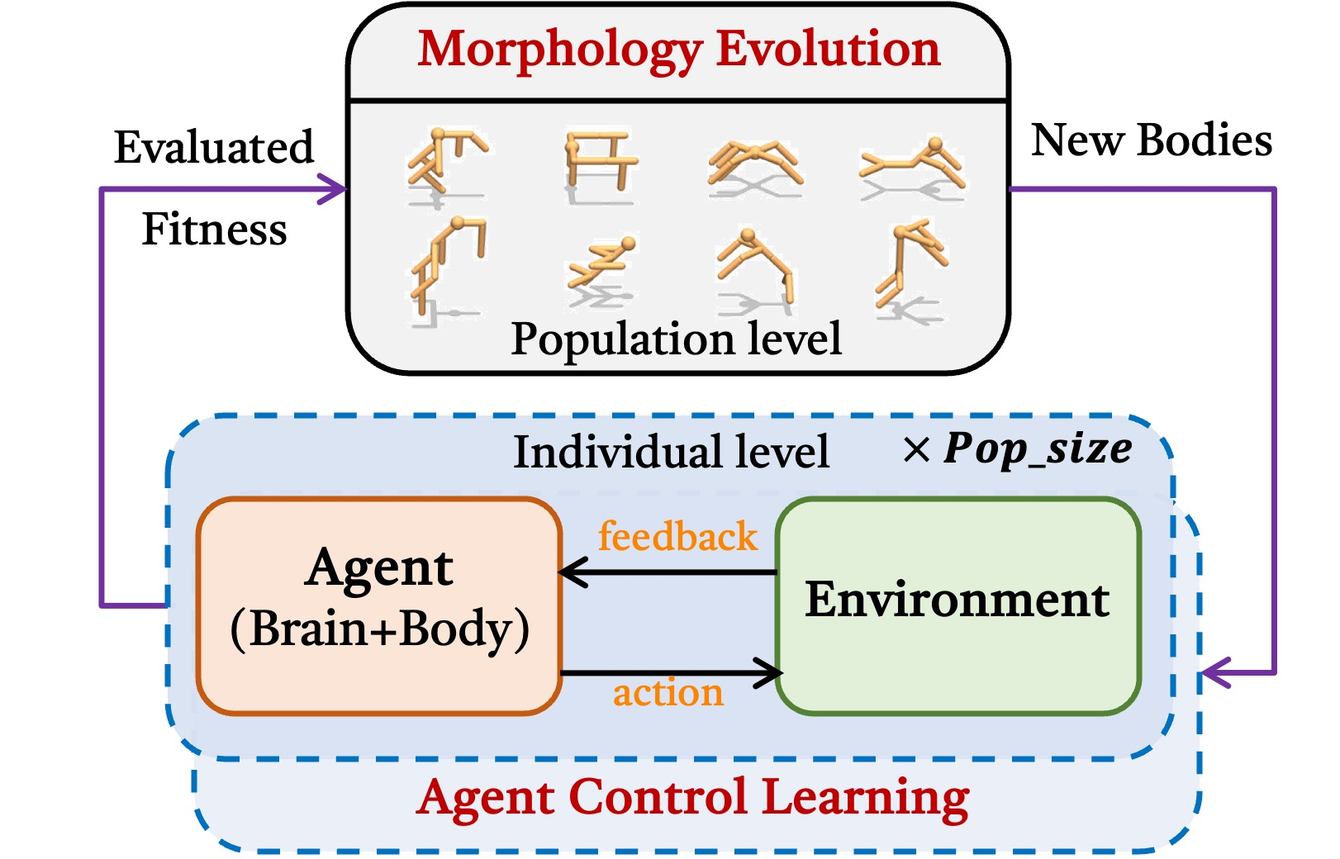
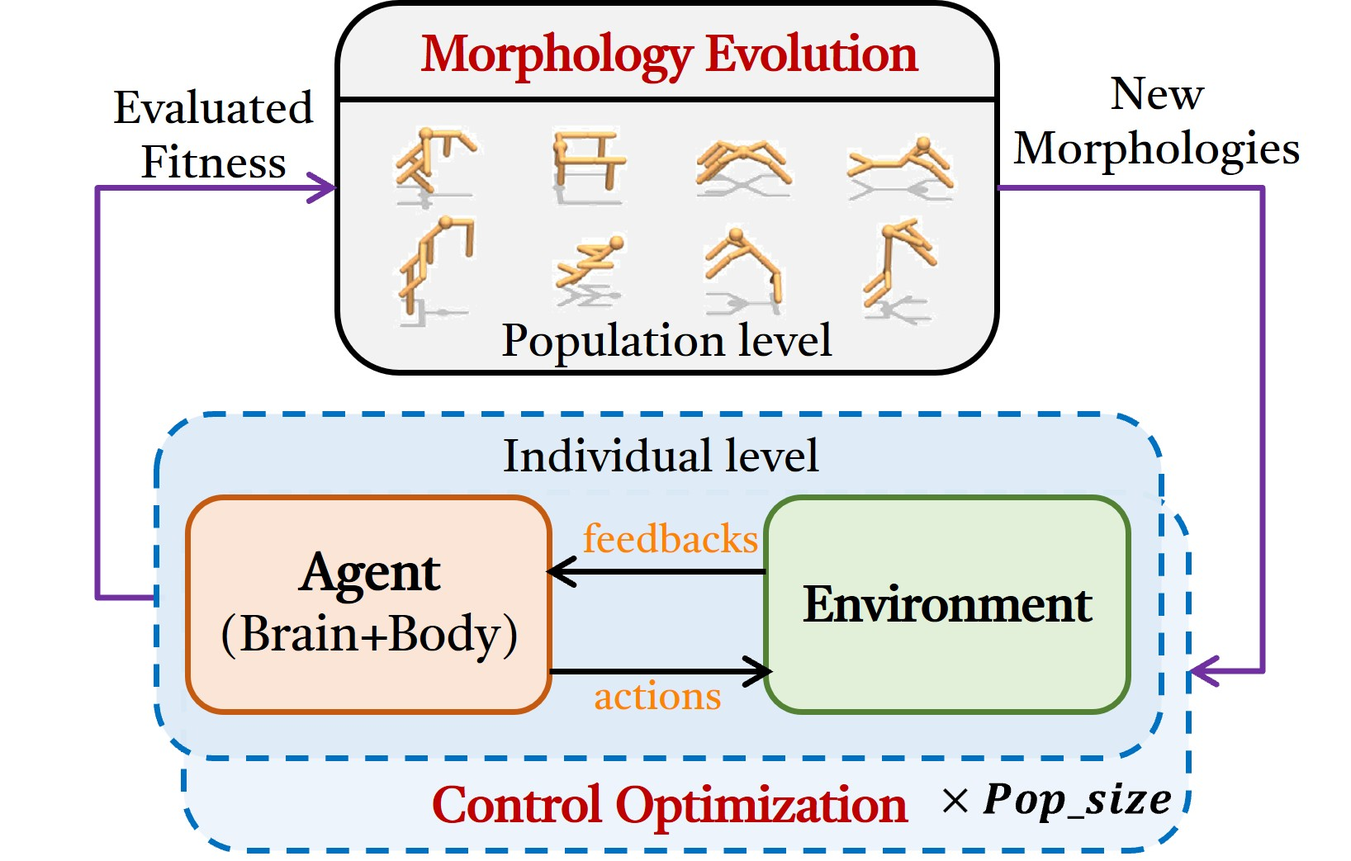
update

Changed region(s): [[0.0617, 0.0, 0.9556, 1.0]]

diff --git a/README.md b/README.md
@@ -13,7 +13,7 @@
 
 <div align=center><img src="images/cover4.jpg" width="99%"></div>
 
-<p style="text-align:justify;"><b>🔑 Contributions to Embodied AI:</b> This work provides a comprehensive survey of ECD within the broader landscape of embodied intelligence. We begin with definitions of ECD and contextualize it within related fields such as evolutionary robotics, artificial life, and computational robot design. Next, we introduce a novel hierarchical taxonomy to classify design spaces and encoding methods for control, morphology, and tasks, which allows us to analyze over one hundred recent studies in ECD. We review notable benchmarks and applications in both simulated and real-world scenarios. Finally, we identify significant challenges and offer insights into promising future research directions.
+<p style="text-align:justify;"><b>🔑 Contributions to Embodied AI:</b> This work provides a comprehensive survey of ECD within the broader landscape of embodied intelligence. We begin with definitions of ECD and contextualize it within related fields such as evolutionary robotics, artificial life, and computational robot design. Next, we introduce a novel hierarchical taxonomy to classify design spaces and representation methods for control, morphology, and tasks, which allows us to analyze over one hundred recent studies in ECD. We review notable benchmarks and applications in both simulated and real-world scenarios. Finally, we identify significant challenges and offer insights into promising future research directions.
 
 We hope that this survey can serve as a reference-worthy and stimulating contribution to the advancement of embodied intelligence while also providing valuable perspectives for related fields.</p></b>
 
@@ -38,41 +38,40 @@ The process to submit a pull request is as follows:
 <p style="text-align:justify;">
 Here is a quick menu .^_^. : </p>
   
-- [🚀 Embodied Co-Design for Rapidly Evolving Agents: Taxonomy, Frontiers, and Challenges](#-brain-body-co-design-in-embodied-intelligence-taxonomy-frontiers-and-challenges)
+- [🚀 Embodied Co-Design for Rapidly Evolving Agents: Taxonomy, Frontiers, and Challenges](#-embodied-co-design-for-rapidly-evolving-agents-taxonomy-frontiers-and-challenges)
 - [📋 Update List](#-update-list)
 - [🔥 Comments](#-comments)
 - [🎥 Overview](#-overview)
-	- [Taxonomy of ECD](#taxonomy-of-bbcd)
-	- [Optimization Frameworks of ECD](#optimization-frameworks-of-bbcd)
-- [:star: Latest Works](#star-latest-works)
-- [:one: Bi-Level Co-Design](#one-bi-level-brain-body-co-design)
-	- [ERL-Based Methods](#erl-based-methods)
-	- [Surrogate-Based Methods](#surrogate-based-methods)
-	- [Diversity-Based Methods](#diversity-based-methods)
+	- [Taxonomy of Embodied Co-Design](#taxonomy-of-embodied-co-design)
+	- [Frameworks of Embodied Co-Design](#frameworks-of-embodied-co-design)
+- [:star: Latest ECD Works](#star-latest-ecd-works)
+- [:one: Bi-Level Co-Design](#one-bi-level-co-design)
+	- [Evolutionary Reinforcement Learning](#evolutionary-reinforcement-learning)
+	- [Surrogate-Assisted Methods](#surrogate-assisted-methods)
 	- [Other Methods](#other-methods)
-- [:two: Single-Level Co-Design](#two-single-level-brain-body-co-design)
+- [:two: Single-Level Co-Design](#two-single-level-co-design)
 	- [EA-Based Methods](#ea-based-methods)
 	- [RL-Based Methods](#rl-based-methods)
 	- [Physics-Based Methods](#physics-based-methods)
-	- [Other Methods](#other-methods-1)
-- [:three: Generative Co-Design](#three-generative-brain-body-co-design)
+	- [Diversity-Based Methods](#diversity-based-methods)
+- [:three: Generative Co-Design](#three-generative-co-design)
 	- [Rule-Based Generation](#rule-based-generation)
 	- [Latent-Based Generation](#latent-based-generation)
-	- [Large-Model-Based Generation](#large-model-based-generation)
+	- [LLM/VLM-Based Generation](#llmvlm-based-generation)
 - [:four: Open-Ended Co-Design Methods](#four-open-ended-co-design-methods)
-	- [Co-Evolution Methods](#co-evolution-methods)
-	- [Developmental Methods](#developmental-methods)
-	- [Others](#others)
-- [:five: Theoretical and Experimental Analysis of Embodied Co-Design](#five-theoretical-and-experimental-analysis-of-brain-body-co-design)
-- [:computer: Simulated Benchmarks for Embodied Co-Design](#computer-simulated-benchmarks-for-brain-body-co-design)
-- [:door: ECD in Real World](#door-bbcd-in-real-world)
+	- [Brain-Body-Env Co-Evolution](#brain-body-env-co-evolution)
+	- [Developmental Co-Evolution](#developmental-co-evolution)
+	- [Other Methods](#other-methods-1)
+- [:five: Theoretical and Experimental Analysis of Embodied Co-Design](#five-theoretical-and-experimental-analysis-of-embodied-co-design)
+- [:computer: Simulated Benchmarks for Embodied Co-Design](#computer-simulated-benchmarks-for-embodied-co-design)
+- [:door: Embodied Co-Deisgn in Real World](#door-embodied-co-deisgn-in-real-world)
 - [:book: Other Surveys Recommended](#book-other-surveys-recommended)
 - [:envelope: Contact Information](#envelope-contact-information)
 
-## Taxonomy of ECD
+## Taxonomy of Embodied Co-Design
 <p style="text-align:justify;"> 
 
-The creation of an embodied agent hinges on three critical components: <b>Controlling Brain</b>, <b>Body Morphology</b>, <b>Task Environment</b>, and the <b>Co-Design algorithm</b> that optimizes these components.</p>
+The creation of an embodied agent hinges on three critical components: <b>Controlling Brain</b>, <b>Body Morphology</b>, <b>Task Environment</b>, and the <b>Co-Design</b> algorithm that optimizes these components.</p>
 
 <p style="text-align:justify;"><b>1. Controlling Brain</b>: The controller (software) is responsible for perception-action coupling, enabling an agent to process sensory information and generate appropriate motor responses to control its body.</p>
 
@@ -82,18 +81,18 @@ The creation of an embodied agent hinges on three critical components: <b>Contro
 
 <p style="text-align:justify;"><b>4. Co-Design Algorithms (A machine that can design other machines)</b>: An effective co-design algorithm integrates the optimization of control, morphology, and environmental interactions. Unlike traditional methods that treat these components separately, co-design algorithms aim to simultaneously refine all aspects, leading to more efficient and adaptive agents. These algorithms leverage advanced techniques to explore and exploit the co-design space, optimizing for performance across diverse tasks and environments.</p>
 
-<div align=center><img src="images/tax.png" width="95%"></div>
+<div align=center><img src="images/tax.png" width="98%"></div>
 
 <b>:book: We provide a detailed analysis of ECD methods based on the proposed taxonomy. Please refer to our paper when it is available online.</b>
 
-## Optimization Frameworks of ECD
+## Frameworks of Embodied Co-Design  
 The following picture introduces 4 general ECD frameworks, with the last sub-figure showing an example of the ECD process for creating a BipedalWalker agent.
 <div align=center><img src="images/over.png" width="100%"></div>
 
-# :star: Latest Works
-|Paper| Published in |Co-Designed Agent|Code&Page|                               
+# :star: Latest ECD Works
+|Paper| Published in |Embodied Agent|Code&Page|                               
 |:---------|:---------------------------------------------------|:-------------:|:-------------|
-|[RoboMorph: Evolving Robot Morphology using Large Language Models](https://arxiv.org/pdf/2407.08626?)|**Arxiv 2024**|Rigid Robot|-|
+|[RoboMorph: Evolving Robot Morphology using Large Language Models](https://arxiv.org/pdf/2407.08626?)|**ICLRw 2025**|Rigid Robot|-|
 |[RoboNet: A Sample-Efficient Robot co-design Generator](https://openreview.net/pdf?id=VdT2R6XSlV)|**CoRLw 2024**|Rigid Robot|-|
 |[LASeR: LASeR: Towards Diversified and Generalizable Robot Design with Large Language Models](https://openreview.net/forum?id=7mlvOHL6qJ)|**ICLR 2025**|Modular Soft Robot|[Code](https://github.com/WoodySJR/LASeR)|
 |[Generating Freeform Endoskeletal Robots](https://arxiv.org/abs/2412.01036)|**ICLR 2025**|Endoskeletal Robot|[Code](https://github.com/iffiX/endoskeletal)&[Page](https://endoskeletal.github.io/)|
@@ -122,6 +121,8 @@ The following picture introduces 4 general ECD frameworks, with the last sub-fig
 |[Concurrent optimization of modular robots for planetary landforms: A terrain-guided approach based on STGCN-GA](https://link.springer.com/article/10.1007/s42064-024-0259-8)|**Astrodynamics 2025**|Modular Robot||
 |[A Design Co-Pilot for Task-Tailored Manipulators](https://arxiv.org/pdf/2509.13077)|**Arxiv 2025**|Manipulators|[Page](https://cobra.cps.cit.tum.de/tasks?version=2022&metadata__tags=Robot_designer)|
 |[CAD-Driven Co-Design for Flight-Ready Jet-Powered Humanoids](https://arxiv.org/pdf/2509.14935)|**Arxiv 2025**|Humanoid Robot||
+|[Performance-guided Task-specific Optimization for Multirotor Design](https://arxiv.org/pdf/2510.04724)|**Arxiv 2025**|Multirotor Robot|[Page](https://youtu.be/V6w_DTKWvtc?si=kV4dyNnZw70lNWEf&t=88)|
+|[Embracing Evolution: A Call for Body-Control Co-Design in Embodied Humanoid Robot](https://arxiv.org/html/2510.03081v1)|**Arxiv 2025**|Humanoid Robot||
 
 # :one: Bi-Level Co-Design
 <div align=center><img src="images/bilevel.jpg" width="50%"></div>
@@ -129,9 +130,10 @@ The following picture introduces 4 general ECD frameworks, with the last sub-fig
 ## Evolutionary Reinforcement Learning
 <b>TLDR: Methods that focus on the bi-level nature of control learning together with morphology evolution (Baldwin Effect)</b>
 
-|Paper| Published in |Co-Designed Agent|Code&Page|                               
+|Paper| Published in |Embodied Agent|Code&Page|                               
 |:---------|:---------------------------------------------------|:-------------:|:-------------|
 [Neural graph evolution: Towards efficient automatic robot design](https://arxiv.org/pdf/1906.05370)|**ICLR 2019**|Rigid Robot|[Code](https://github.com/WilsonWangTHU/neural_graph_evolution)&[Page](https://www.cs.toronto.edu/~henryzhou/NGE_website/)|
+[The body is not a given: Joint agent policy learning and morphology evolution](https://discovery.ucl.ac.uk/id/eprint/10081611/)|**AAMAS 2019**|Rigid Robot|[Page](https://www.youtube.com/watch?v=CHlecRim9PI)|
 [Embodied Intelligence via Learning and Evolution](https://www.nature.com/articles/s41467-021-25874-z)|**Nature Comm. 2021**|Rigid Robot|[Code](https://github.com/agrimgupta92/derl)&[Page](https://hai.stanford.edu/news/how-bodies-get-smarts-simulating-evolution-embodied-intelligence)|
 [Evolution Gym: A Large-Scale Benchmark for Evolving Soft Robots](https://arxiv.org/pdf/2201.09863)|**NIPS 2021**|Modular Soft Robot|[Code](https://github.com/EvolutionGym/evogym)&[Page](https://evolutiongym.github.io/)|
 [Evolving Physical Instinct for Morphology and Control Co-Adaption](https://ieeexplore.ieee.org/document/10342243)|**IROS 2023**|Legged Robot|[Code](https://github.com/HPCL-EI/InstinctEvolution)|
@@ -152,33 +154,27 @@ The following picture introduces 4 general ECD frameworks, with the last sub-fig
 ## Surrogate-Assisted Methods
 <b>TLDR: Methods that focus on using surrogate models to reduce the computational burden of the co-design process (how to efficiently evaluate a morphology without learning a specific controller?)</b>
 
-|Paper| Published in |Co-Designed Agent|Code&Page|                               
+|Paper| Published in |Embodied Agent|Code&Page|                               
 |:---------|:---------------------------------------------------|:-------------:|:-------------|
-[The trade-off between morphology and control in the co-optimized design of robots](https://journals.plos.org/plosone/article/file?id=10.1371/journal.pone.0186107&type=printable)|**PLOS ONE 2017**|Rigid Robot|-|
-[Data-efficient Learning of Morphology and Controller for a Microrobot](https://arxiv.org/pdf/1905.01334)|**ICRA 2019**|Micro Robot|[Code](https://github.com/tholiao/learning-morph-and-ctrl)&[Page](https://sites.google.com/view/learning-robot-morphology)|
-[Data-efficient co-adaptation of morphology and behaviour with deep reinforcement learning](https://arxiv.org/pdf/1911.06832)|**CoRL 2020**|Rigid Robot|[Code](https://github.com/ksluck/Coadaptation)|
-[What robot do i need? fast co-adaptation of morphology and control using graph neural networks](https://arxiv.org/pdf/2111.02371)|**Arxiv 2021**|Rigid Robot|-|
-[Evolution Gym: A Large-Scale Benchmark for Evolving Soft Robots](https://arxiv.org/pdf/2201.09863)|**NIPS 2021**|Modular Soft Robot|[Code](https://github.com/EvolutionGym/evogym)&[Page](https://evolutiongym.github.io/)|
-[Co-imagination of Behaviour and Morphology of Agents](https://kevin-luck.com/assets/pdf/Sliacka_LOD_2024.pdf)|**LOD 2023**|Rigid Robot|-|
-[Co-imitation: learning design and behaviour by imitation](https://arxiv.org/pdf/2209.01207)|**AAAI 2023**|Rigid Robot|[Page](https://sites.google.com/view/co-imitation)|
-[Rapidly evolving soft robots via action inheritance](https://ieeexplore.ieee.org/document/10296048)|**TEVC 2023**|Modular Soft Robot|[Code](https://github.com/ShuleiLiu/AIEA)|
-[Co-Designing Tools and Control Policies for Robust Manipulation](https://arxiv.org/pdf/2409.11113)|**Arxiv 2024**|Rigid Tool|[Page](https://sites.google.com/view/robust-codesign/)|
-[Effective Design and Interpretation in Voxel-Based Soft Robotics: A Part Assembly Approach with Bayesian Optimization](https://direct.mit.edu/isal/proceedings/isal2024/36/26/123476)|**GECCO 2024**|Modular Soft Robot|-|
+|[Data-efficient Learning of Morphology and Controller for a Microrobot](https://arxiv.org/pdf/1905.01334)|**ICRA 2019**|Micro Robot|[Code](https://github.com/tholiao/learning-morph-and-ctrl)&[Page](https://sites.google.com/view/learning-robot-morphology)|
+|[Data-efficient co-adaptation of morphology and behaviour with deep reinforcement learning](https://arxiv.org/pdf/1911.06832)|**CoRL 2020**|Rigid Robot|[Code](https://github.com/ksluck/Coadaptation)|
+|[What robot do i need? fast co-adaptation of morphology and control using graph neural networks](https://arxiv.org/pdf/2111.02371)|**Arxiv 2021**|Rigid Robot|-|
+|[Neural fidelity warping for efficient robot morphology design](https://arxiv.org/pdf/2012.04195)|**ICRA 2021**|Rigid Robot|[Code](https://github.com/husha1993/FWBO)|
+|[Evolution Gym: A Large-Scale Benchmark for Evolving Soft Robots](https://arxiv.org/pdf/2201.09863)|**NIPS 2021**|Modular Soft Robot|[Code](https://github.com/EvolutionGym/evogym)&[Page](https://evolutiongym.github.io/)|
+|[Co-imagination of Behaviour and Morphology of Agents](https://kevin-luck.com/assets/pdf/Sliacka_LOD_2024.pdf)|**LOD 2023**|Rigid Robot|-|
+|[Co-imitation: learning design and behaviour by imitation](https://arxiv.org/pdf/2209.01207)|**AAAI 2023**|Rigid Robot|[Page](https://sites.google.com/view/co-imitation)|
+|[Rapidly evolving soft robots via action inheritance](https://ieeexplore.ieee.org/document/10296048)|**TEVC 2024**|Modular Soft Robot|[Code](https://github.com/ShuleiLiu/AIEA)|
+|[Co-Designing Tools and Control Policies for Robust Manipulation](https://arxiv.org/pdf/2409.11113)|**Arxiv 2024**|End Effector|[Page](https://sites.google.com/view/robust-codesign/)|
+|[Cagecoopt: enhancing manipulation robustness through caging-guided morphology and policy co-optimization](https://arxiv.org/abs/2409.11113)|**IROS 2025**|End Effector|[Page](https://sites.google.com/view/robust-codesign/)|
+|[Effective Design and Interpretation in Voxel-Based Soft Robotics: A Part Assembly Approach with Bayesian Optimization](https://direct.mit.edu/isal/proceedings/isal2024/36/26/123476)|**A-Life 2024**|Modular Soft Robot|-|
 |[Efficient co-adaptation of humanoid robot design and locomotion control using surrogate-guided optimization](https://www.sciencedirect.com/science/article/pii/S2667379725000464)|**Biomimetic Intelligence and Robotics**|Humanoid Robot|-|
 
-## Diversity-Based Methods
-<b>TLDR: Methods that focus on generating morphological diversity (how to effectively keep the morphological diversity?).</b>
-
-|Paper| Published in |Co-Designed Agent|Code&Page|                               
-|:---------|:---------------------------------------------------|:-------------:|:-------------|
-[A ’MAP’ to find high-performing soft robot designs: Traversing complex design spaces using MAP-elites and Topology Optimization](https://arxiv.org/pdf/2407.07591)|**IROS 2024**|Rigid Manipulator|N/A|
-|[Controller Distillation Reduces Fragile Brain-Body Co-Adaptation and Enables Migrations in MAP-Elites](https://arxiv.org/pdf/2504.06523)|**GECCO 2025**|Modular Soft Robot|[Code](https://github.com/mertan-a/pollination)|
-|[Enhancing Adaptability in Embodied Agents: A Multi-Quality-Diversity Approach](https://ieeexplore.ieee.org/abstract/document/11119655)|**IEEE TEVC**|Modular Soft Robot|[Code](https://github.com/giorgia-nadizar/BBB-QD)|
-|[Quality-diversity in problems with composite solutions: a case study on body–brain robot optimization](https://link.springer.com/article/10.1007/s10710-025-09520-x)|**Genetic Programming and Evolvable Machines**|Modular Soft Robot|-|
 
 ## Other Methods
-|Paper| Published in |Co-Designed Agent|Code&Page|                               
+|Paper| Published in |Embodied Agent|Code&Page|                               
 |:---------|:---------------------------------------------------|:-------------:|:-------------|
+[Lamarckian evolution of simulated modular robots](https://www.frontiersin.org/journals/robotics-and-ai/articles/10.3389/frobt.2019.00009/full)|**Frontiers in Robotics and AI 2019**|Modular Robot|[Code](https://github.com/ci-group/revolve/)|
+[Robogrammar: graph grammar for terrain-optimized robot design](https://dl.acm.org/doi/10.1145/3414685.3417831)|**TOG 2020**|Rigid Robot|[Code](https://github.com/allanzhao/RoboGrammar)&[Page](https://people.csail.mit.edu/jiex/papers/robogrammar/index.html)|
 [Task-Agnostic Morphology Evolution](https://openreview.net/pdf?id=CGQ6ENUMX6)|**ICLR 2021**|Rigid Robot|[Code](https://github.com/jhejna/morphology-opt)&[Page](https://sites.google.com/view/task-agnostic-evolution)| -->
 [Codesign of humanoid robots for ergonomic collaboration with multiple humans via genetic algorithms and nonlinear optimization](https://ieeexplore.ieee.org/document/10375237)|**Humanoids 2023**|Humanoid Robot|[Code](https://github.com/ami-iit/paper_sartore_2023_humanoids_codesign-ga-nl)|
 [Evolution and learning in differentiable robots](https://www.roboticsproceedings.org/rss20/p100.pdf)|**RSS 2024**|Modular Soft Robot|[Code](https://github.com/lstrgar/ELDiR)&[Page](https://sites.google.com/view/eldir)|
@@ -190,7 +186,7 @@ The following picture introduces 4 general ECD frameworks, with the last sub-fig
 ## EA-Based Methods
 <b>TLDR: Methods that focus on evolving morphology and control simultaneously (how does natural evolution inform the co-design process?).</b>
 
-|Paper| Published in |Co-Designed Agent|Code&Page|                               
+|Paper| Published in |Embodied Agent|Code&Page|                               
 |:---------|:---------------------------------------------------|:-------------:|:-------------|
 |[Evolving 3D morphology and behavior by competition](https://citeseerx.ist.psu.edu/document?repid=rep1&type=pdf&doi=625cf770e697cc01b9201fd3b67456ac56a7a27b)|**ALife 1994**|Rigid Robot|-|
 |[Automatic design and manufacture of robotic lifeforms](http://129.64.46.116/pr/golem/download/naturegolem.pdf)|**Nature 2000**|Rigid Robot|-|
@@ -199,14 +195,18 @@ The following picture introduces 4 general ECD frameworks, with the last sub-fig
 |[An Improved System for Artificial Creatures Evolution](https://citeseerx.ist.psu.edu/document?repid=rep1&type=pdf&doi=2d64f5e208b2e841dfc30ea6daffb4e259bae75f)|**ALife 2006**|Rigid Robot|-|
 |[Evolving virtual creatures and catapults](https://ieeexplore.ieee.org/abstract/document/6792861)|**ALife 2007**|Rigid Robot|-|
 |[Solving deceptive tasks in robot body-brain co-evolution by searching for behavioral novelty](https://ieeexplore.ieee.org/abstract/document/5687250)|**ICISDA 2010**|Rigid Robot|-|
+[The trade-off between morphology and control in the co-optimized design of robots](https://journals.plos.org/plosone/article/file?id=10.1371/journal.pone.0186107&type=printable)|**PLOS ONE 2017**|Rigid Robot|-|
+[A good body is all you need: Avoiding catastrophic interference via agent architecture search](https://arxiv.org/pdf/2108.08398)|**NIPS 2021**|Wheeled Robot|[Code](https://github.com/jpp46/ARXIV2021)|
 [A Unified Substrate for Body-Brain Co-evolution](https://arxiv.org/pdf/2203.12066)|**ICLRw 2022**|Vitual Creature|[Code](https://github.com/sidneyp/neural-cellular-robot-substrate)|
 |[Evolution of Developmental Plasticity of Soft Virtual Creatures in Changing Environments](https://ieeexplore.ieee.org/document/10611998)|**CEC 2024**|Modular Soft Robot|N/A|
+|[No-brainer: Morphological Computation driven Adaptive Behavior in Soft Robots](https://arxiv.org/pdf/2407.16613)|**SAB 2024**|Modular Soft Robot|[Code](https://github.com/mertan-a/no-brainer)|
 |[Concurrent optimization of modular robots for planetary landforms: A terrain-guided approach based on STGCN-GA](https://link.springer.com/article/10.1007/s42064-024-0259-8)|**Astrodynamics 2025**|Modular Robot||
+|[Controller Distillation Reduces Fragile Brain-Body Co-Adaptation and Enables Migrations in MAP-Elites](https://arxiv.org/pdf/2504.06523)|**GECCO 2025**|Modular Soft Robot|[Code](https://github.com/mertan-a/pollination)|
 
 ## RL-Based Methods
 <b>TLDR: Methods that focus on optimizing morphology and control simultaneously using Reinforcement Learning (physics-model free).</b>
 
-|Paper| Published in |Co-Designed Agent|Code&Page|                               
+|Paper| Published in |Embodied Agent|Code&Page|                               
 |:---------|:---------------------------------------------------|:-------------:|:-------------|
 |[Reinforcement learning for improving agent design](https://direct.mit.edu/artl/article/25/4/352/93262/Reinforcement-Learning-for-Improving-Agent-Design)|**A-LIFE 2019**|Rigid Robot|[Page](https://designrl.github.io/)|
 |[Learning to Fly: Computational Controller Design for Hybrid UAVs with Reinforcement Learning](https://dl.acm.org/doi/10.1145/3306346.3322940)|**ACM TOG 2019**|UAV|-|
@@ -218,6 +218,7 @@ The following picture introduces 4 general ECD frameworks, with the last sub-fig
 |[N-LIMB: Neural Limb Optimization for Efficient Morphological Design](https://proceedings.neurips.cc/paper_files/paper/2019/file/c26820b8a4c1b3c2aa868d6d57e14a79-Paper.pdf)|**Arxiv 2022**|Rigid Robot|[Page](https://sites.google.com/ttic.edu/nlimb)&[Code](https://github.com/cbschaff/nlimb2)|
 |[Curriculum-based co-design of morphology and control of voxel-based soft robots](https://openreview.net/pdf?id=r9fX833CsuN)|**ICLR 2023**|Modular Soft Robot|[Code](https://github.com/Yuxing-Wang-THU/ModularEvoGym)&[Page](https://yuxing-wang-thu.github.io/projects/1_project/)|
 |[PreCo: Enhancing Generalization in Co-Design of Modular Soft Robots via Brain-Body Pre-Training](https://proceedings.mlr.press/v229/wang23b/wang23b.pdf)|**CoRL 2023**|Modular Soft Robot|[Code](https://github.com/Yuxing-Wang-THU/ModularEvoGym)&[Page](https://yuxing-wang-thu.github.io/projects/1_project/)|
+[Co-optimization of Morphology and Behavior of Modular Robots via Hierarchical Deep Reinforcement Learning](https://roboticsproceedings.org/rss19/p096.pdf)|**RSS 2023**|Modular Robot|-|
 |[Learning to Design and Use Tools for Robotic Manipulation](https://arxiv.org/pdf/2311.00754)|**CoRL 2023**|Robot Manipulator Tools|[Page](https://robotic-tool-design.github.io/)|
 |[MORPH: Design Co-optimization with Reinforcement Learning via a Differentiable Hardware Model Proxy](https://arxiv.org/pdf/2309.17227)|**Arxiv 2023**|Rigid robot|[Page](https://roamlab.github.io/morph/)|
 |[Symmetry-Aware Robot Design with Structured Subgroups](https://proceedings.mlr.press/v202/dong23h/dong23h.pdf)|**ICML 2023**|Rigid robot|[Code](https://github.com/drdh/SARD)&[Page](https://sites.google.com/view/robot-design)|
@@ -229,7 +230,7 @@ The following picture introduces 4 general ECD frameworks, with the last sub-fig
 ## Physics-Based Methods
 <b>TLDR: Methods that focus on optimizing morphology and control simultaneously using Differentiable Simulation (physics-model based).</b>
 
-|Paper| Published in |Co-Designed Agent|Code&Page|                               
+|Paper| Published in |Embodied Agent|Code&Page|                               
 |:---------|:---------------------------------------------------|:-------------:|:-------------|
 |[Learning-in-the-loop optimization: End-to-end control and co-design of soft robots through learned deep latent representations](https://proceedings.neurips.cc/paper/2019/file/438124b4c06f3a5caffab2c07863b617-Paper.pdf)|**NIPS 2019**|Soft Robot|-|
 |[Diffaqua: A differentiable computational design pipeline for soft underwater swimmers with shape interpolation](https://dl.acm.org/doi/pdf/10.1145/3450626.3459832)|**ACM TOG 2021**|Soft Gripper|[Code](https://github.com/mit-gfx/DiffAqua)&[Page](https://proceedings.neurips.cc/paper/2019/hash/438124b4c06f3a5caffab2c07863b617-Abstract.html)|
@@ -246,7 +247,14 @@ The following picture introduces 4 general ECD frameworks, with the last sub-fig
 |[Accelerated co-design of robots through morphological pretraining](https://arxiv.org/pdf/2502.10862)|**Arxiv 2025**|Modular Robot|[Page](https://sites.google.com/view/co-design-mpt)|
 |[Modeling, Embedded Control and Design of Soft Robots using a Learned Condensed FEM Model](https://arxiv.org/pdf/2503.15009)|**IEEE TRO**|Soft Robot|-|
 
-## Other Methods
+## Diversity-Based Methods
+<b>TLDR: Methods that focus on generating morphological diversity (how to effectively keep the morphological diversity?).</b>
+
+|Paper| Published in |Embodied Agent|Code&Page|                               
+|:---------|:---------------------------------------------------|:-------------:|:-------------|
+[A ’MAP’ to find high-performing soft robot designs: Traversing complex design spaces using MAP-elites and Topology Optimization](https://arxiv.org/pdf/2407.07591)|**IROS 2024**|Rigid Manipulator|N/A|
+|[Enhancing Adaptability in Embodied Agents: A Multi-Quality-Diversity Approach](https://ieeexplore.ieee.org/abstract/document/11119655)|**IEEE TEVC**|Modular Soft Robot|[Code](https://github.com/giorgia-nadizar/BBB-QD)|
+|[Quality-diversity in problems with composite solutions: a case study on body–brain robot optimization](https://link.springer.com/article/10.1007/s10710-025-09520-x)|**Genetic Programming and Evolvable Machines**|Modular Soft Robot|-|
 
 # :three: Generative Co-Design
 <div align=center><img src="images/gen.jpg" width="50%"></div>
@@ -254,7 +262,7 @@ The following picture introduces 4 general ECD frameworks, with the last sub-fig
 ## Rule-Based Generation
 <b>TLDR: Methods that focus on generating agent morphologies using rule-based systems (grammar, L-systems, etc.).</b>
 
-|Paper| Published in |Co-Designed Agent|Code&Page|                               
+|Paper| Published in |Embodied Agent|Code&Page|                               
 |:---------|:---------------------------------------------------|:-------------:|:-------------|
 |[Generative representations for the automated design of modular physical robots](https://ntrs.nasa.gov/api/citations/20030107313/downloads/20030107313.pdf)|**TRA 2004**|Rigid Robot|-|
 [Robogrammar: graph grammar for terrain-optimized robot design](https://dl.acm.org/doi/10.1145/3414685.3417831)|**TOG 2020**|Rigid Robot|[Code](https://github.com/allanzhao/RoboGrammar)&[Page](https://people.csail.mit.edu/jiex/papers/robogrammar/index.html)|
@@ -264,20 +272,21 @@ The following picture introduces 4 general ECD frameworks, with the last sub-fig
 ## Latent-Based Generation
 <b>TLDR: Methods that focus on generating agent morphologies using latent-based systems (GAN, VAE, etc.).</b>
 
-|Paper| Published in |Co-designed Agent|Code&Page|                               
+|Paper| Published in |Embodied Agent|Code&Page|                               
 |:---------|:---------------------------------------------------|:-------------:|:-------------|
+[Emergent hand morphology and control from optimizing robust grasps of diverse objects](https://arxiv.org/pdf/2012.12209)|**ICRA 2021**|Robot Hand|[Code](https://xinleipan.github.io/emergent_morphology/)|
 [GLSO: Grammar-guided Latent Space Optimization for Sample-efficient Robot Design Automation](https://proceedings.mlr.press/v205/hu23c/hu23c.pdf)|**CoRL 2022**|Rigid Robot|[Code](https://github.com/JiahengHu/GLSO)|
 |[Modular Robot Design Optimization with Generative Adversarial Networks](https://ieeexplore.ieee.org/abstract/document/9812091)|**ICRA 2022**|Modular Rigid Robot|-|
 |[MorphVAE: Advancing Morphological Design of Voxel-Based Soft Robots with Variational Autoencoders](https://ojs.aaai.org/index.php/AAAI/article/view/28904)|**AAAI 2024**|Modular Soft Robot|[Code](https://github.com/WoodySJR/MorphVAE)|
 |[RoboNet: A Sample-Efficient Robot co-design Generator](https://openreview.net/pdf?id=VdT2R6XSlV)|**CoRLw 2024**|Rigid Robots|-|
 |[Generating Freeform Endoskeletal Robots](https://arxiv.org/abs/2412.01036)|**ICLR 2025**|Endoskeletal Robots|[Code](https://github.com/iffiX/endoskeletal)&[Page](https://endoskeletal.github.io/)|
 |[TE-RoboNet: Transfer Enhanced RoboNet for Sample-Efficient Generation of Robot Co-Designs](https://openreview.net/forum?id=sbjbD8ftCH)|**EWRL 2025**|Rigid Robot||
-|[COGENT: Co-design of Robots with GFlowNets](https://openreview.net/forum?id=IfLKMWrroL)|**EWRL 2025**|Modular Robot||
+|[COGENT: Co-design of Robots with GFlowNets](https://openreview.net/forum?id=IfLKMWrroL)|**EWRL 2025**|Modular Robot|-|
 
-## Large-Model-Based Generation
+## LLM/VLM-Based Generation
 <b>TLDR: Methods that focus on generating agent morphologies using large models (Diffusion Model, LLM, etc.).</b>
 
-|Paper| Published in |Co-Designed Agent|Code&Page|                               
+|Paper| Published in |Embodied Agent|Code&Page|                               
 |:---------|:---------------------------------------------------|:-------------:|:-------------|
 |[Evolution Through Large Models](https://arxiv.org/abs/2206.08896)|**Arxiv 2023**|Robot Gripper|[Code](https://github.com/CarperAI/OpenELM)|
 |[How can LLMs transform the robotic design process?](https://www.nature.com/articles/s42256-023-00669-7)|**Nature Machine Intelligence 2023**|Robot Gripper|-|
@@ -292,11 +301,12 @@ The following picture introduces 4 general ECD frameworks, with the last sub-fig
 # :four: Open-Ended Co-Design Methods
 <div align=center><img src="images/open.jpg" width="50%"></div>
 
-## Co-Evolution Methods
+## Brain-Body-Env Co-Evolution 
 <b>TLDR: Methods that focus on brain-body-environment co-optimization.</b>
 
-|Paper| Published in |Co-Designed Agent|Code&Page|                               
+|Paper| Published in |Embodied Agent|Code&Page|                               
 |:---------|:---------------------------------------------------|:-------------:|:-------------|
+|[Co-optimising robot morphology and controller in a simulated open-ended environment](https://arxiv.org/pdf/2104.03062)|**EvoStar 2021**|Legged Robot|[Code](https://github.com/EmmaStensby/poet-morphology)|
 |[Co-Designing Manipulation Systems Using Task-Relevant Constraints](https://www.static.tu.berlin/fileadmin/www/10002220/Publications/Vaish-22-ICRA.pdf)|**ICRA 2022**|Rigid Manipulator|N/A|
 |[Curriculum Reinforcement Learning via Morphology-Environment Co-Evolution](https://arxiv.org/pdf/2309.12529)|**Arxiv 2023**|Rigid Robot|N/A|
 |[Task2Morph: Differentiable Task-inspired Framework for Contact-Aware Robot Design](https://ieeexplore.ieee.org/document/10341360)|**IROS 2023**|Rigid Robot|[Code](https://github.com/HPCL-EI/Task2Morph)|
@@ -305,12 +315,15 @@ The following picture introduces 4 general ECD frameworks, with the last sub-fig
 |[Evolving Complex Environments in Evolution Gym using Large Language Models](https://ieeexplore.ieee.org/abstract/document/10626609)|**ICASSPW 2024**|2D Modular Soft Robot</br>(Voxel-Based Soft Robot)|N/A|
 |[Task-Based Design and Policy Co-Optimization for Tendon-driven Underactuated Kinematic Chains](https://arxiv.org/pdf/2405.14566)|**Arxiv 2024**|Rigid Manipulator|[Page](https://roamlab.github.io/tentamorph/)|
 
-## Developmental Methods
+## Developmental Co-Evolution
+|Paper| Published in |Embodied Agent|Code&Page|                               
+|:---------|:---------------------------------------------------|:-------------:|:-------------|
+|[Morphological Development at the Evolutionary Timescale: Robotic Developmental Evolution](https://direct.mit.edu/artl/article/28/1/3/109958/Morphological-Development-at-the-Evolutionary)|**A-Life 2022**|Soft Robot|-|
 
-## Others 
+## Other Methods 
 <b>TLDR: Actuating Shape-Changed robots.</b>
 
-|Paper| Published in |Co-Designed Agent|Code&Page|                               
+|Paper| Published in |Embodied Agent|Code&Page|                               
 |:---------|:---------------------------------------------------|:-------------:|:-------------|
 |[Shape change and control of pressure-based soft agents](https://direct.mit.edu/isal/proceedings/isal2022/34/37/112294)|**ALIFE 2022**|Pressure-Based Soft Robot|[Code](https://github.com/pigozzif/PressureSoftAgents)&[Page](https://pressuresoftagents.github.io/)|
 |[DittoGym: Learning to Control Soft Shape-Shifting Robots](https://arxiv.org/pdf/2401.13231)|**ICLR 2024**|Soft Shape-Shifting Robots|[Code](https://github.com/suninghuang19/dittogym)&[Page](https://dittogym.github.io/)|
@@ -318,14 +331,28 @@ The following picture introduces 4 general ECD frameworks, with the last sub-fig
 # :five: Theoretical and Experimental Analysis of Embodied Co-Design
 <b>TLDR: Papers that investigates the synergy of Brain, Body, and Environment.</b>
 
-|Paper| Published in |Co-Designed Agent|Code&Page| 
+|Paper| Published in |Embodied Agent|Code&Page| 
 |:---------|:---------------------------------------------------|:-------------:|:-------------|
+|[Fitness functions in evolutionary robotics: A survey and analysis](https://www.sciencedirect.com/science/article/pii/S0921889008001450)|**RAS 2009**|-|-|
+|[Beyond black-box optimization: a review of selective pressures for evolutionary robotics](https://link.springer.com/article/10.1007/s12065-014-0110-x)|**EI 2014**|-|-|
+|[Simple or complex bodies? Trade-offs in exploiting body morphology for control](https://link.springer.com/chapter/10.1007/978-3-319-43784-2_17)|**Book 2017**|-|-|
+|[How morphological development can guide evolution](https://www.nature.com/articles/s41598-018-31868-7)|**Scientific Reports 2018**|-|-|
+|[Evolving-controllers versus learning-controllers for morphologically evolvable robots](https://research.vu.nl/files/130180393/Miras2020_Chapter_Evolving_ControllersVersusLearningControllersForMorphologicallyEvolvableRobots.pdf) |**EvoStar 2020**|3D Modular Robot|-|
 |[A comparative analysis on genome pleiotropy for evolved soft robots](https://dl.acm.org/doi/abs/10.1145/3520304.3528977) |**GECCO 2022**|3D Modular Soft Robot|[Code](https://github.com/Co-Evolve/genome-pleiotropy)|
-[Subtract to adapt: Autotomic robots](https://par.nsf.gov/servlets/purl/10492896)|**RoboSoft 2023**|Modular Soft Robot|N/A|
+|[Comparative studies of evolutionary methods and RL for learning behavior of virtual creatures](https://ieeexplore.ieee.org/abstract/document/10022282)|**SSCI 2022**|Modular Soft Robot|[Code](https://github.com/sttkm/ComparisonOnEvogym)|
+|[The Effects of Learning in Morphologically Evolving Robot Systems](https://www.frontiersin.org/journals/robotics-and-ai/articles/10.3389/frobt.2022.797393/full)|**Frontiers 2022**|Modular Robot|-|
+|[The Dynamic of Body and Brain Co-Evolution](https://arxiv.org/pdf/2011.11440)|**ADAPTIVE BEHAVIOR**|Rigid Robot|[Page](https://youtu.be/rSngmzd5hiE)|
+|[Subtract to adapt: Autotomic robots](https://par.nsf.gov/servlets/purl/10492896)|**RoboSoft 2023**|Modular Soft Robot|N/A|
+|[Enhancing robot evolution through Lamarckian principles](https://www.nature.com/articles/s41598-023-48338-4)|**Scientific Reports 2023**|Modular Robot|N/A|
+|[Modular controllers facilitate the co-optimization of morphology and control in soft robots](https://dl.acm.org/doi/pdf/10.1145/3583131.3590416)|**GECCO 2023**|Modular Soft Robot|[code](https://github.com/mertan-a/gecco-23)|
+|[How the morphology encoding influences the learning ability in body-brain co-optimization](https://arts.units.it/retrieve/38193007-3420-4082-8af5-9de6a3385725/2023-GECCO-MorphologyEncodingLearningInVSRs-Post_print.pdf)|**GECCO 2023**|Modular Robot|[code](https://github.com/karinemiras/revolve2/tree/plasticoding_v3)|
 [A comparison of controller architectures and learning mechanisms for arbitrary robot morphologies](https://arxiv.org/pdf/2309.13908)|**SSCI 2023**|Modular Rigid Robot|N/A|
 [How Perception, Actuation, and Communication Impact the Emergence of Collective Intelligence in Simulated Modular Robots](https://ieeexplore.ieee.org/document/10791479)|**ALIFE 2024**|Modular Robot|N/A|
 [Co-Optimization of Robot Design and Control: Enhancing Performance and Understanding Design Complexity](https://arxiv.org/pdf/2409.08621)|**Arxiv 2024**|-|[Code](https://github.com/EtorArza/NestedOpt)|
 |[Investigating Premature Convergence in Co-optimization of Morphology and Control in Evolved Virtual Soft Robots](https://books.google.com.hk/books?hl=zh-CN&lr=&id=Y4f9EAAAQBAJ&oi=fnd&pg=PA38&ots=IjMl3-hZx0&sig=JnsRuJQAu0ksg_AOW7c0GxXUG1I&redir_esc=y#v=onepage&q&f=false)|**EuroGP 2024**|Modular Soft Robot|N/A|
+|[The role of morphological variation in evolutionary robotics: Maximizing performance and robustness](https://arxiv.org/pdf/2208.02809)|**EC 2024**|Rigid Robot|N/A|
+|[Premature convergence in morphology and control co-evolution: a study](https://journals.sagepub.com/doi/abs/10.1177/10597123231198497)|**Adaptive Behavior 2024**|-|N/A|
+|[Artificial evolution of robot bodies and control: on the interaction between evolution, individual and cultural learning](https://napier-repository.worktribe.com/OutputFile/2812314)|**RoyalSoc Trans**|-|N/A|
 |[Evolutionary Brain-Body Co-Optimization Consistently Fails to Select for Morphological Potential](https://arxiv.org/abs/2508.17464)|**A-Life 2025**|Modular Soft Robot|[Code](https://github.com/mertan-a/morphology-fitness-landscape)|
 |[Morphological Cognition: Classifying MNIST Digits Through Morphological Computation Alone](https://arxiv.org/abs/2508.17469)|**A-Life 2025**|Modular Soft Robot|[Code](https://github.com/mertan-a/morphological-cognition)|
 |[The Morphology-Control Trade-Off: Insights into Soft Robotic Efficiency](https://arxiv.org/abs/2503.16127)|**Arxiv 2025**|Modular Soft Robot|-|
@@ -345,10 +372,14 @@ The following picture introduces 4 general ECD frameworks, with the last sub-fig
 |**2D-VSR-Sim**</br>[Code](https://github.com/giorgia-nadizar/NeuralModelsVSR)&[Page](https://giorgia-nadizar.github.io/NeuralModelsVSR/)</br>**2D-MR-Sim**</br>[Code](https://github.com/ericmedvet/2dmrsim)&[Page](https://github.com/ericmedvet/2dmrsim)</br>**2D-Robot-Evolution**</br>[Code](https://github.com/ericmedvet/2d-robot-evolution/)&[Page](https://github.com/ericmedvet/2d-robot-evolution/)|[2D-VSR-Sim: a Simulation Tool for the Optimization of 2-D Voxel-based Soft Robots (SoftwareX 2020)](https://medvet.inginf.units.it/publications/2020-j-mbds-vsr/)</br>1. [An experimental comparison of evolved neural network models for controlling simulated modular soft robots (Applied Soft Computing)](https://www.sciencedirect.com/science/article/pii/S1568494623006282) </br>2. [On the Schedule for Morphological Development of Evolved Modular Soft Robots (EuroGP 2022)](https://medvet.inginf.units.it/publications/2022-c-nmm-schedule/)</br>3. [Optimizing the Sensory Apparatus of Voxel-based Soft Robots through Evolution and Babbling (Springer Nature Computer Science 2022)](https://medvet.inginf.units.it/publications/2021-j-fmi-optimizing/)</br>4. [Merging Pruning and Neuroevolution: towards Robust and Efficient Controllers for Modular Soft Robots (KER 2021)](https://medvet.inginf.units.it/publications/2021-j-nmnhpz-merging/)</br>5. [Evolving Hebbian Learning Rules in Voxel-based Soft Robots (IEEE TechRxiv 2021)](https://medvet.inginf.units.it/publications/2021-p-fimp-evolving/)</br>6. [On the Effects of Pruning on Evolved Neural Controllers for Soft Robots (NEWK@GECCO 2021)](https://medvet.inginf.units.it/publications/2021-c-nmpzn-effects/)</br>7. [Criticality-driven Evolution of Adaptable Morphologies of Voxel-Based Soft-Robots (Frontiers in Robotics and AI 2021)](https://medvet.inginf.units.it/publications/2021-j-tmn-criticality/)</br>8. [Biodiversity in Evolved Voxel-based Soft Robots (GECCO 2021)](https://medvet.inginf.units.it/publications/2021-c-mbpr-biodiversity/)</br>9. [Beyond Body Shape and Brain: Evolving the Sensory Apparatus of Voxel-based Soft Robots (EvoAPPS 2021)](https://medvet.inginf.units.it/publications/2021-c-fim-beyond/)</br>10. [Evolution of Distributed Neural Controllers for Voxel-based Soft Robots (GECCO 2020)](https://medvet.inginf.units.it/publications/2020-c-mbdf-evolution/)</br>11. [Evolving Modular Soft Robots without Explicit Inter-Module Communication using Local Self-Attention (GECCO 2022)](https://softrobots.github.io/)</br>12. [No-brainer: Morphological Computation driven Adaptive Behavior in Soft Robots (SAB 2024)](https://arxiv.org/pdf/2407.16613)|Modular Soft Robot|`No`|
 |**Sorotoki**</br>[Code](https://github.com/BJCaasenbrood/SorotokiCode)&[Page](https://bjcaasenbrood.github.io/SorotokiCode/)|[Sorotoki: A Matlab Toolkit for Design, Modeling, and Control of Soft Robots (IEEE ACCESS)](https://openreview.net/pdf?id=1zo4iioUEs)|Soft Robot|`No`|
 |**RoboGen**</br>[Code](https://robogen.org/docs/get-started/)&[Page](https://robogen.org/)|[RoboGen: Robot Generation through Artificial Evolution](https://direct.mit.edu/isal/proceedings/alife2014/26/136/99059)|Modular Robot|`No`|
+|**EMR-Unity**</br>[Code](https://github.com/FrankVeenstra/EvolvingModularRobots_Unity)|[EMR: Evolving Modular Robots](https://github.com/FrankVeenstra/EvolvingModularRobots_Unity)|Modular Robot|`No`|
 
-# :door: ECD in Real World
-|Paper| Published in |Co-Designed Agent|                               
+
+# :door: Embodied Co-Deisgn in Real World
+|Paper| Published in |Embodied Agent|                               
 |:---------|:---------------------------------------------------|:-------------:|
+|[Voxcraft](https://voxcraft.github.io/)|**Real-world Platform**|Voxel-based Soft Robot|
+|[Revolve2](https://ci-group.github.io/revolve2/)|**Real-world Platform**|Modular Rigid Robot|
 |[Real-world reproduction of evolved robot morphologies: Automated categorization and evaluation](https://link.springer.com/chapter/10.1007/978-3-319-16549-3_62)|**EvoApplications 2015**|Legged Robot|
 |[Real-world evolution of robot morphologies: A proof of concept](https://direct.mit.edu/artl/article-abstract/23/2/206/2865/Real-World-Evolution-of-Robot-Morphologies-A-Proof)|**A-Life 2017**|Modular Robot|
 |[Real World Morphological Evolution is Feasible](https://arxiv.org/pdf/2005.09288)|**GECCO 2020**|Legged Robot|
@@ -364,14 +395,16 @@ The following picture introduces 4 general ECD frameworks, with the last sub-fig
 |[Co-Designing Tools and Control Policies for Robust Manipulation](https://arxiv.org/pdf/2409.11113)|**Arxiv 2024**|Robot Tools|[Page](https://sites.google.com/view/robust-codesign/)|
 
 # :book: Other Surveys Recommended
-- [Embracing Evolution: A Call for Body-Control Co-Design in Embodied Humanoid Robot](https://arxiv.org/pdf/2510.03081)</br>Guiliang Liu, et al., 2025, ArXiv Preprint 
+
+- [Embracing Evolution: A Call for Body-Control Co-Design in Embodied Humanoid Robot](https://arxiv.org/html/2510.03081v1)</br>Guiliang Liu, et al., 2025, ArXiv Preprint 
+- [Soft robotics: what’s next in bioinspired design and applications of soft robots?](https://iopscience.iop.org/article/10.1088/1748-3190/ae066d/meta) </br>Cecilia Laschi, Li Wen, Fumiya Iida and others, 2025, Bioinspiration & Biomimetics
 - [Embodied Intelligence: A Synergy of Morphology, Action, Perception and Learning](https://dl.acm.org/doi/pdf/10.1145/3717059)</br>Huaping Liu, et al., 2025, ACM Computing Surveys 
-- [Evolutionary robotics and open-ended design automation](https://citeseerx.ist.psu.edu/document?repid=rep1&type=pdf&doi=adac8ad353506beaad68e9e5b2f61172a4a0184a)</br>Hod Lipson, 2005, Biomimetics 
+- [Accessible survey of evolutionary robotics and potential future research directions](https://arxiv.org/pdf/2210.11704)</br>Hari Mohan Pandey, Arxiv, 2024  
 - [Exploring Embodied Intelligence in Soft Robotics: A Review](https://www.mdpi.com/2313-7673/9/4/248)</br>Zikai Zhao, et al., 2024, Bio-Inspired and Biomimetic Intelligence in Robotics  
 - [Collective Intelligence for Deep Learning: A Survey of Recent Developments](https://journals.sagepub.com/doi/pdf/10.1177/26339137221114874)</br>David Ha and Yujin Tang, 2022, Collective Intelligence  
 - [Bridging evolutionary algorithms and reinforcement learning: A comprehensive survey on hybrid algorithms](https://ieeexplore.ieee.org/abstract/document/10637292)</br>Pengyi Li and Jianye Hao, et al., 2022, IEEE Transactions on Evolutionary Computation  
 - [Design Optimization of Soft Robots: A Review of the State of the Art](https://ieeexplore.ieee.org/document/9237112)</br>FeiFei Chen and Michael Yu Wang, 2022, IEEE Robotics & Automation Magazine
-- [Soft robotics: what’s next in bioinspired design and applications of soft robots?](https://iopscience.iop.org/article/10.1088/1748-3190/ae066d/meta) </br>Cecilia Laschi, Li Wen, Fumiya Iida and others, 2025, Bioinspiration & Biomimetics
+- [Evolutionary robotics and open-ended design automation](https://citeseerx.ist.psu.edu/document?repid=rep1&type=pdf&doi=adac8ad353506beaad68e9e5b2f61172a4a0184a)</br>Hod Lipson, 2005, Biomimetics 
     
 # :envelope: Contact Information
 This repo is developed and maintained by [Yuxing Wang](https://yuxing-wang-thu.github.io/). For any questions, please feel free to email `wyx20@tsinghua.org.cn`.
